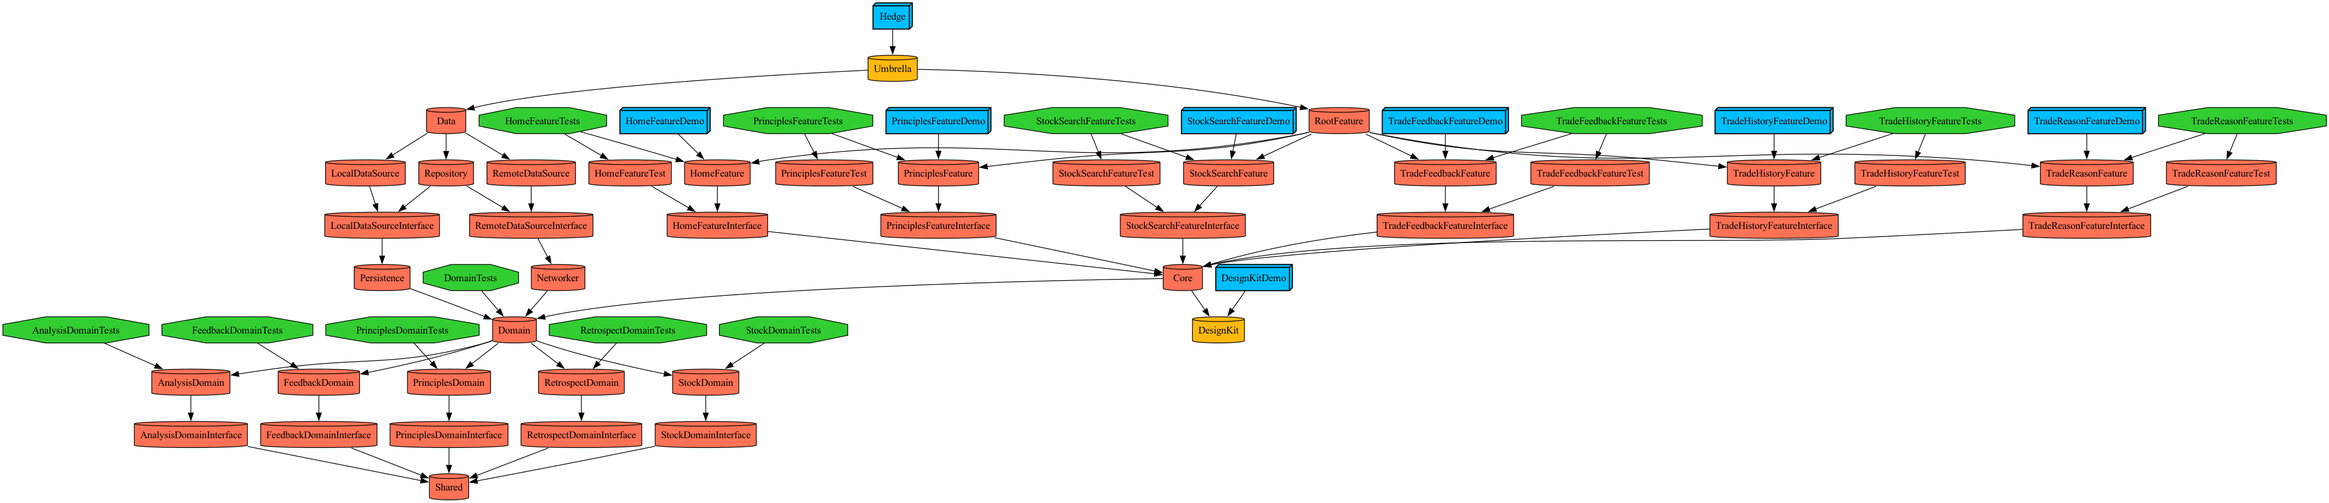
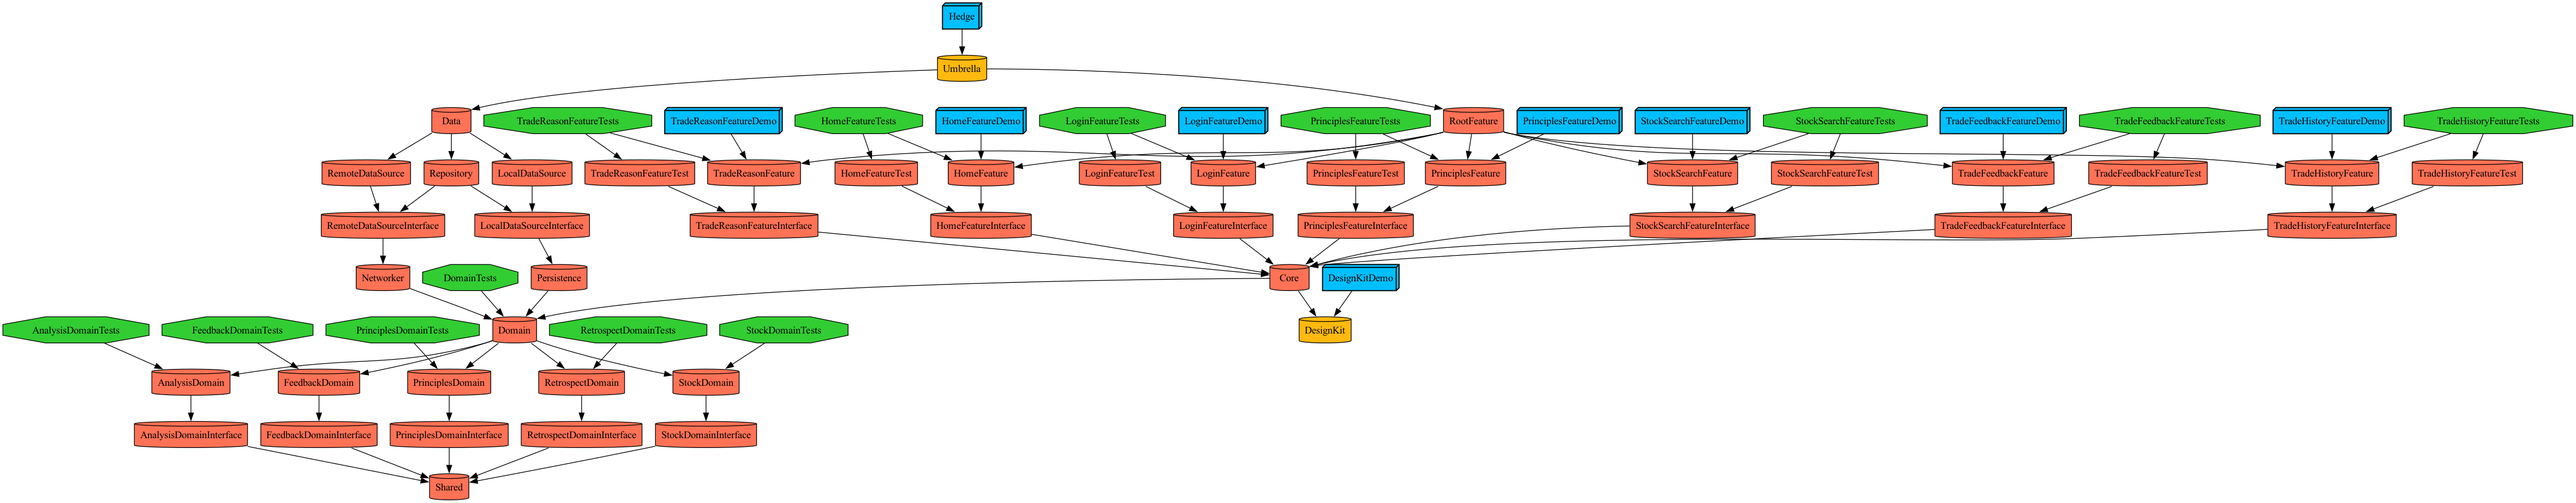
feat. LoginFeature 생성

diff --git a/Hedge/Tuist/ProjectDescriptionHelpers/Template/Project+.swift b/Hedge/Tuist/ProjectDescriptionHelpers/Template/Project+.swift
@@ -139,8 +139,8 @@ extension Project {
         )
         
         // Test 타겟
-        let testTarget = createFrameworkTarget(
-            name: "\(name)Test",
+        let testTarget = createTestTarget(
+            name: name,
             configuration: configuration,
             product: product,
             dependencies: [
@@ -209,6 +209,26 @@ extension Project {
             deploymentTargets: configuration.deploymentTarget,
             infoPlist: .default,
             sources: ["Sources/**"],
+            resources: hasResources ? [.glob(pattern: "Resources/**", excluding: [])] : [],
+            dependencies: dependencies
+        )
+    }
+    
+    private static func createTestTarget(
+        name: String,
+        configuration: AppConfiguration,
+        hasResources: Bool = false,
+        product: Product,
+        dependencies: [TargetDependency]
+    ) -> Target {
+        return Target.target(
+            name: "\(name)Test",
+            destinations: configuration.destination,
+            product: product,
+            bundleId: "\(configuration.bundleIdentifier).\(name.lowercased())",
+            deploymentTargets: configuration.deploymentTarget,
+            infoPlist: .default,
+            sources: ["Test/Sources/**"],
             resources: hasResources ? [.glob(pattern: "Resources/**", excluding: [])] : [],
             dependencies: dependencies
         )

diff --git a/Hedge/Projects/Features/LoginFeature/Demo/Sources/AppDelegate.swift b/Hedge/Projects/Features/LoginFeature/Demo/Sources/AppDelegate.swift
@@ -1,0 +1,32 @@
+import UIKit
+
+@UIApplicationMain
+class AppDelegate: UIResponder, UIApplicationDelegate {
+
+    var window: UIWindow?
+
+    func application(_ application: UIApplication, didFinishLaunchingWithOptions launchOptions: [UIApplication.LaunchOptionsKey: Any]?) -> Bool {
+
+        return true
+    }
+
+    func applicationWillResignActive(_ application: UIApplication) {
+        
+    }
+
+    func applicationDidEnterBackground(_ application: UIApplication) {
+        
+    }
+
+    func applicationWillEnterForeground(_ application: UIApplication) {
+        
+    }
+
+    func applicationDidBecomeActive(_ application: UIApplication) {
+        
+    }
+
+    func applicationWillTerminate(_ application: UIApplication) {
+        
+    }
+}

diff --git a/Hedge/Tuist/ProjectDescriptionHelpers/Extension/Dependency+Feature.swift b/Hedge/Tuist/ProjectDescriptionHelpers/Extension/Dependency+Feature.swift
@@ -49,4 +49,10 @@ public extension TargetDependency.Feature {
         public static let feature = featureDependency(target: name)
         public static let interface = featureInterfaceDependency(target: name)
     }
+
+    struct Login {
+        private static let name = "LoginFeature"
+        public static let feature = featureDependency(target: name)
+        public static let interface = featureInterfaceDependency(target: name)
+    }
 }

diff --git a/Hedge/Projects/Features/LoginFeature/Tests/Sources/Sample.swift b/Hedge/Projects/Features/LoginFeature/Tests/Sources/Sample.swift
@@ -1,0 +1,18 @@
+//
+//  LoginTests.swift
+//  LoginTests
+//
+//  Created by  on .
+//
+
+import Testing
+@testable import LoginFeature
+
+@Suite("Login Tests")
+struct LoginTests {
+    
+    @Test("Example test")
+    func exampleTest() {
+        #expect(true)
+    }
+}

diff --git a/Hedge/Projects/Features/LoginFeature/Project.swift b/Hedge/Projects/Features/LoginFeature/Project.swift
@@ -1,0 +1,10 @@
+import ProjectDescription
+import ProjectDescriptionHelpers
+
+let project = Project.configure(
+    moduleType: .micro(name: "LoginFeature"),
+    product: .staticFramework,
+    dependencies: [
+	.Core.core
+    ]
+)

diff --git a/Hedge/Projects/Features/LoginFeature/Demo/Sources/LoginApp.swift b/Hedge/Projects/Features/LoginFeature/Demo/Sources/LoginApp.swift
@@ -1,0 +1,12 @@
+import SwiftUI
+
+@main
+struct LoginApp: App {
+    @UIApplicationDelegateAdaptor(AppDelegate.self) var appDelegate
+    
+    var body: some Scene {
+        WindowGroup {
+            
+        }
+    }
+}

diff --git a/Hedge/Projects/Features/RootFeature/Project.swift b/Hedge/Projects/Features/RootFeature/Project.swift
@@ -18,5 +18,6 @@ let project = Project.configure(
         .Feature.TradeHistory.feature,
         .Feature.TradeFeedback.feature,
         .Feature.Principles.feature,
+        .Feature.Login.feature,
     ]
 )

diff --git a/Hedge/Projects/Features/LoginFeature/Demo/Resources/Sample.swift b/Hedge/Projects/Features/LoginFeature/Demo/Resources/Sample.swift
@@ -1,0 +1,1 @@
+import Foundation

diff --git a/Hedge/Projects/Features/LoginFeature/Interface/Sources/LoginFeature.swift b/Hedge/Projects/Features/LoginFeature/Interface/Sources/LoginFeature.swift
@@ -1,0 +1,1 @@
+import Foundation

diff --git a/Hedge/Projects/Features/LoginFeature/Sources/Sample.swift b/Hedge/Projects/Features/LoginFeature/Sources/Sample.swift
@@ -1,0 +1,1 @@
+import Foundation

diff --git a/Hedge/Projects/Features/LoginFeature/Test/Sources/Sample.swift b/Hedge/Projects/Features/LoginFeature/Test/Sources/Sample.swift
@@ -1,0 +1,1 @@
+import Foundation
